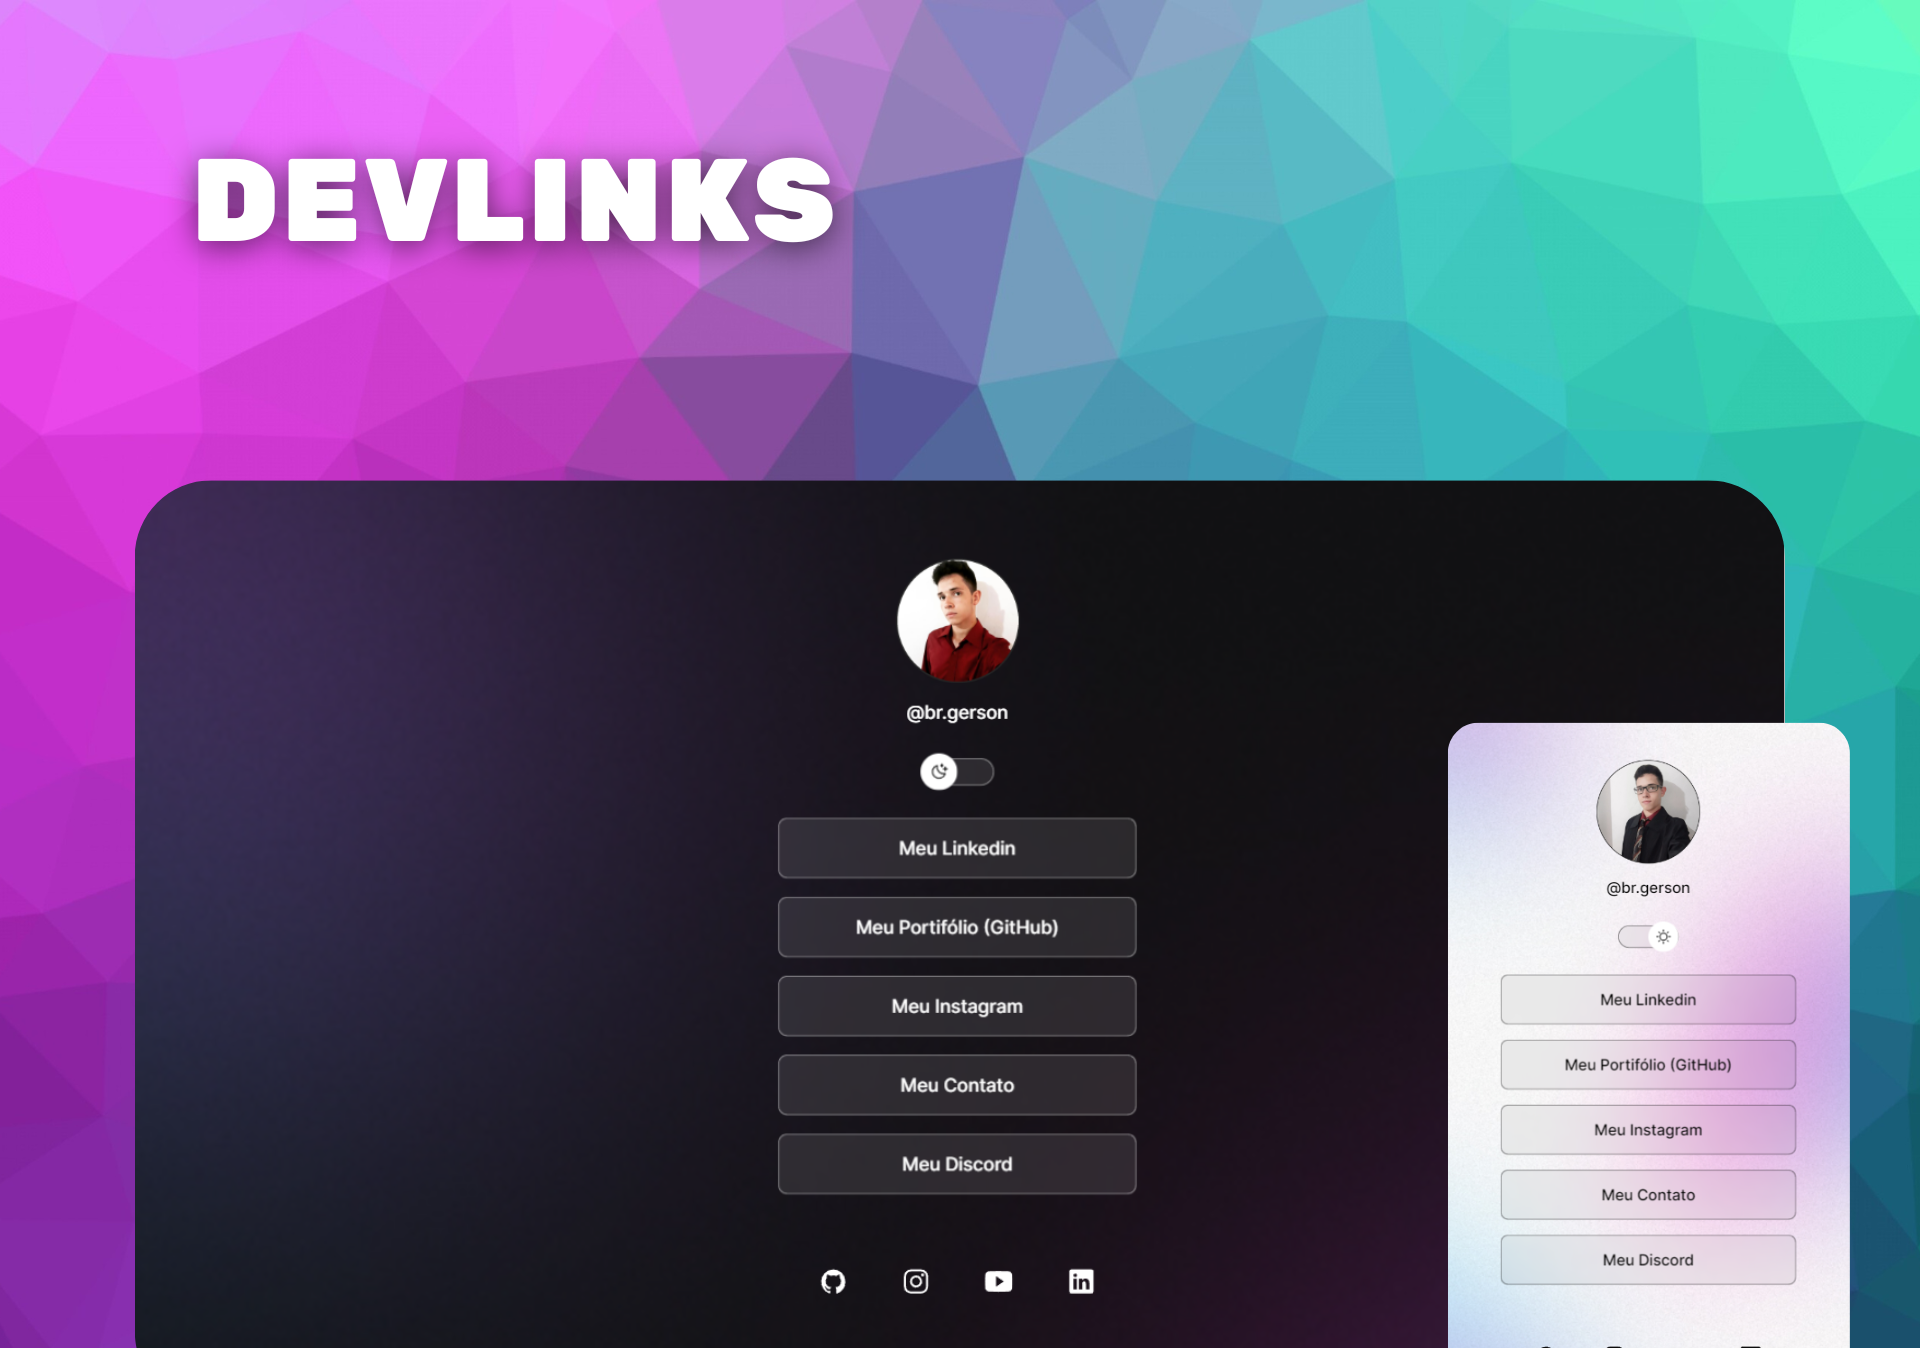
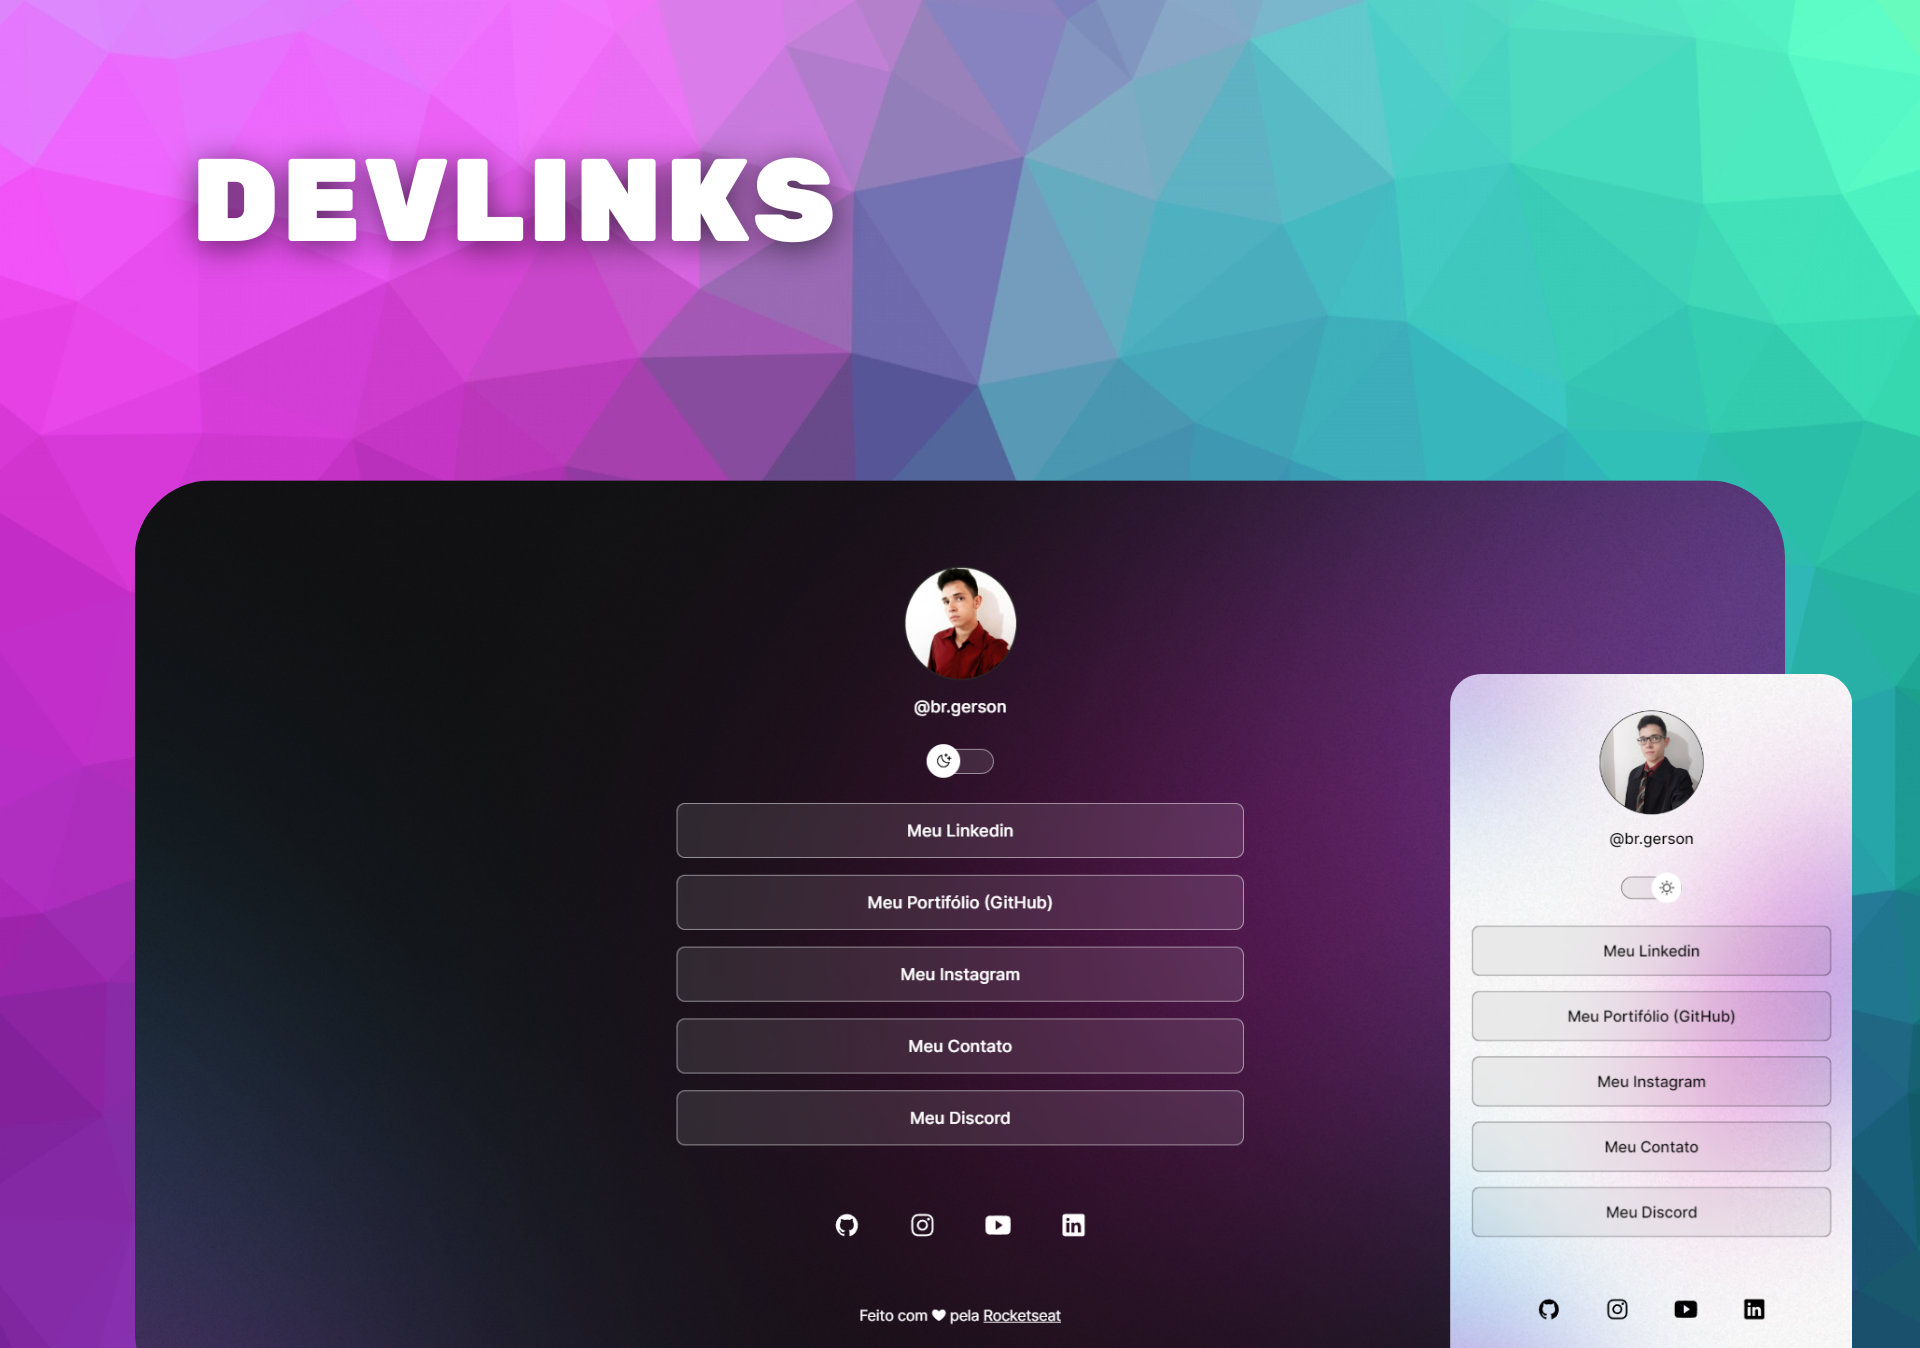
finished project

diff --git a/index.html b/index.html
@@ -31,16 +31,16 @@
         <li><a href="#" target="_blank">Meu Discord</a></li>
       </ul>
       <div id="social-links">
-        <a href="github" target="_blank">
+        <a href="https://github.com/Githojiro" target="_blank">
           <ion-icon name="logo-github"></ion-icon>
         </a>
-        <a href="Instagran" target="_blank">
+        <a href="https://www.instagram.com/br.gerson/" target="_blank">
           <ion-icon name="logo-instagram"></ion-icon>
         </a>
-        <a href="youtube" target="_blank">
-          <ion-icon name="logo-youtube"></ion-icon>
+        <a href="https://www.tiktok.com/@br.gersons" target="_blank">
+          <ion-icon name="logo-tiktok"></ion-icon>
         </a>
-        <a href="linkedin" target="_blank">
+        <a href="https://www.linkedin.com/in/br-gerson" target="_blank">
           <ion-icon name="logo-linkedin"></ion-icon>
         </a>
       </div>

diff --git a/style.css b/style.css
@@ -25,6 +25,7 @@
 }
 
 body {
+  display: flex;
   background: var(--bg-url) no-repeat top center/cover;
   height: 100vh;
 }
@@ -75,11 +76,16 @@ body * {
   position: absolute;
   z-index: 1;
   transform: translateY(-50%);
+
+  animation: slide-out .4s;
 }
 
 .light #switch button {
-  right: 0;
-  left: initial;
+  animation: slide-in 0.4s forwards;
+}
+
+#switch button:hover{
+  outline: 8px solid var(--highlight-color);
 }
 
 #switch span {
@@ -159,5 +165,24 @@ footer {
 
   .light {
     --bg-url: url(./assets/bg-desktop-light.png);
+  }
+}
+
+/*animations*/
+@keyframes slide-in {
+  from {
+    left: 0;
+  }
+  to {
+    left: 50%;
+  }
+}
+
+@keyframes slide-out {
+  from {
+    left: 50%;
+  }
+  to {
+    left: 0;
   }
 }
